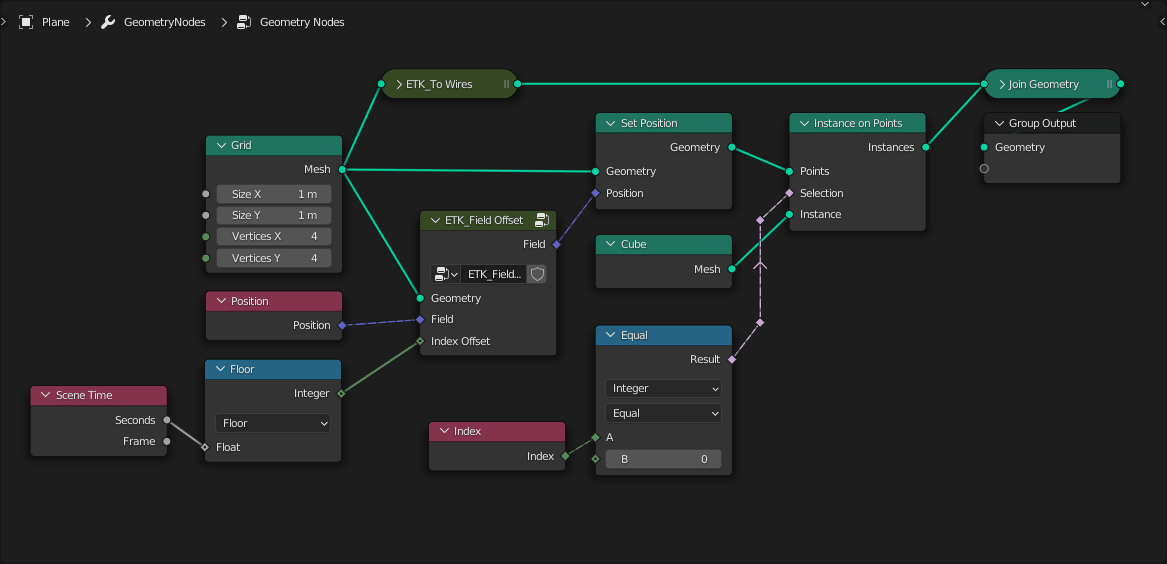
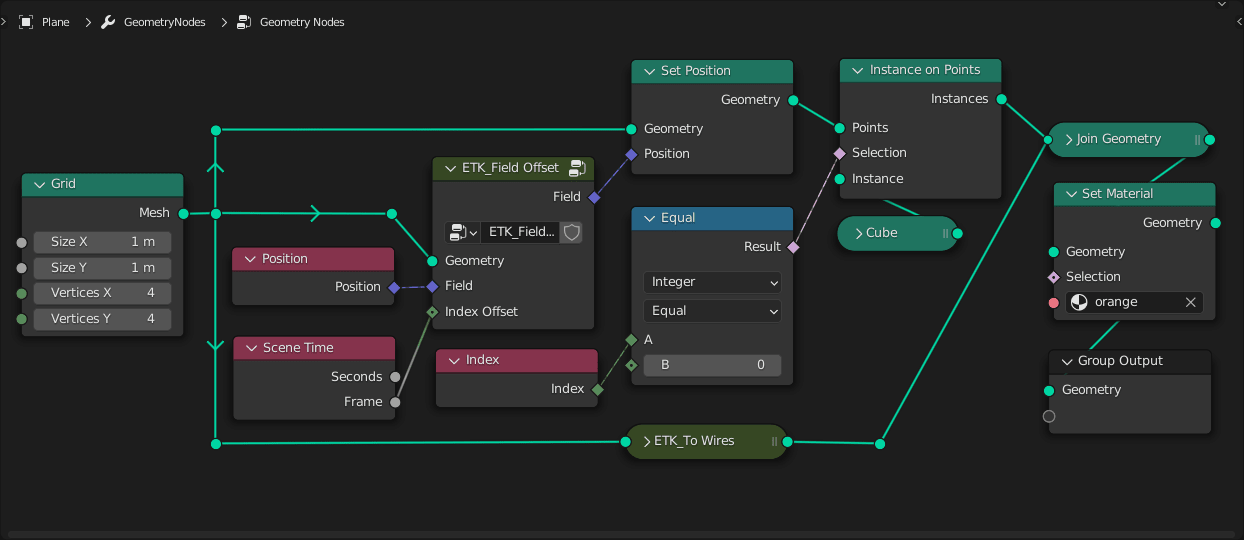
Reworked the Field Offset page for a clearer gif animation and node group.

diff --git a/ref_manual/nodes/fields/field_offset.rst b/ref_manual/nodes/fields/field_offset.rst
@@ -58,11 +58,10 @@ Examples
 
 This example animates a cube around a grid by offsetting the
 *Position* field of the grid and only instantiating the cube at
-*Index* 0. The node group also uses the *Seconds* output of the new
-*Scene Time* node so moves are made once a second.
+*Index* 0. The node group uses the *Frame* output of the new
+*Scene Time* node to render 16 frames (:math:`0\ldots 15`).
 
-To make it wrap continuously the animation specifies 24 FPS with a
-length of :math:`16\times{24} = 384` frames.
+Compare this to the :ref:`etk-fields-field_shuffle` group.
 
 .. figure:: /images/nodes-field_offset_basic.png
    :align: center
